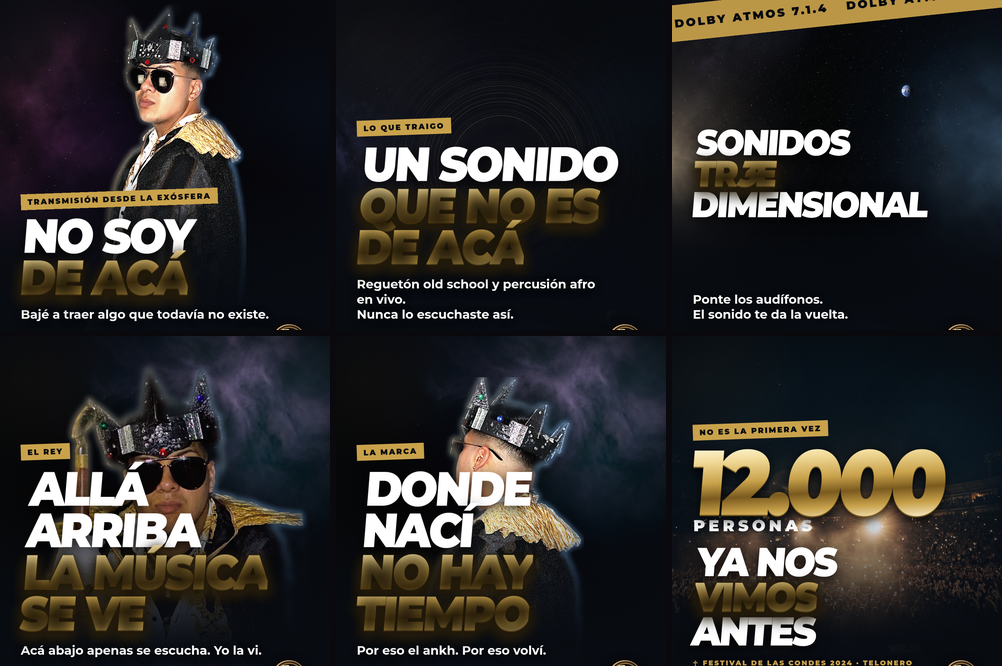
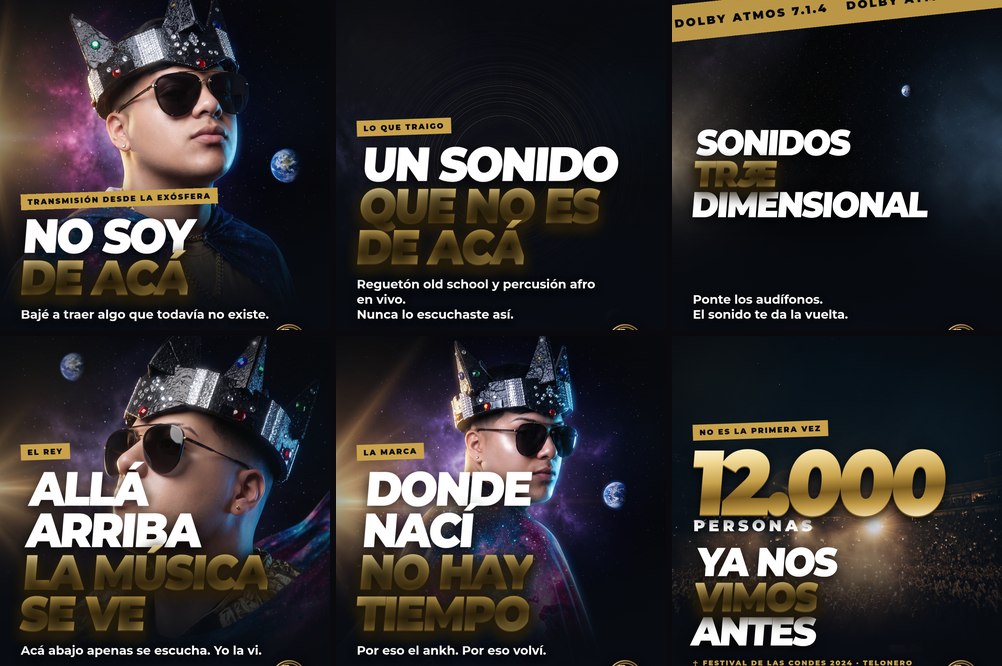
Genera las piezas de World King usando su cara como referencia
Recortar sus fotos y pegarlas sobre un fondo arrastraba la
subexposición del original y el borde duro del recorte. Ahora la foto
se usa como REFERENCIA DE IDENTIDAD para generar: se conservan los
rasgos y se gana piel limpia y acabado pulido.

Los prompts piden explícitamente piel tersa y ligeramente estilizada,
más los efectos que dan el acabado: flare anamórfico dorado entrando
por la izquierda, rim azul marcando la mandíbula por la derecha, glow
bloom y partículas.

Queda documentado el método en marca.json. componer.py se conserva para
cuando haya fotos buenas con las que valga la pena componer.

Changed region(s): [[0.0, 0.4805, 0.6806, 0.9309], [0.0, 0.0, 0.3094, 0.4204], [0.0619, 0.5105, 0.0928, 0.5706]]

diff --git a/produccion-contenido/clientes/world-king/graficas/build.js b/produccion-contenido/clientes/world-king/graficas/build.js
@@ -60,7 +60,7 @@ const piezas = [
     id: 'post-01-llegada',
     w: 1080, h: 1350,
     tipo: 'hero',
-    imagen: 'wk-retrato.png',
+    imagen: 'gen-wk-retrato.png',
     sobre: 'TRANSMISIÓN DESDE LA EXÓSFERA',
     titulo: 'NO SOY<br><span class="oro">DE ACÁ</span>',
     texto: 'Bajé a traer algo que todavía no existe.',
@@ -90,7 +90,7 @@ const piezas = [
     id: 'post-04-corona',
     w: 1080, h: 1350,
     tipo: 'hero',
-    imagen: 'wk-cetro.png',
+    imagen: 'gen-wk-perfil.png',
     sobre: 'EL REY',
     titulo: 'ALLÁ ARRIBA<br><span class="oro">LA MÚSICA<br>SE VE</span>',
     texto: 'Acá abajo apenas se escucha. Yo la vi.',
@@ -100,7 +100,7 @@ const piezas = [
     id: 'post-05-ankh',
     w: 1080, h: 1350,
     tipo: 'hero',
-    imagen: 'wk-espaldas.png',
+    imagen: 'gen-wk-espaldas.png',
     sobre: 'LA MARCA',
     titulo: 'DONDE NACÍ<br><span class="oro">NO HAY TIEMPO</span>',
     texto: 'Por eso el ankh. Por eso volví.',
@@ -126,7 +126,7 @@ const piezas = [
     id: 'post-07-entre-ustedes',
     w: 1080, h: 1350,
     tipo: 'hero',
-    imagen: 'wk-terrestre.png',
+    imagen: 'gen-wk-retrato.png',
     sobre: 'MODO TERRESTRE',
     titulo: 'NO VINE A<br><span class="oro">MANDAR</span>',
     texto: 'Vine a darles.<br>Lo que traigo se comparte.',
@@ -157,7 +157,7 @@ const piezas = [
     id: 'reel-02-adaptacion',
     w: 1080, h: 1920,
     tipo: 'reel',
-    imagen: 'wk-story.png',
+    imagen: 'gen-wk-story.png',
     n: '02',
     sobre: 'PERFORMANCE',
     titulo: 'ME<br><span class="oro">ADAPTO</span>',
@@ -167,7 +167,7 @@ const piezas = [
     id: 'reel-03-frecuencias',
     w: 1080, h: 1920,
     tipo: 'reel',
-    imagen: 'wk-story-cetro.png',
+    imagen: 'gen-wk-story.png',
     n: '03',
     sobre: 'FRECUENCIAS ANÓMALAS',
     titulo: 'NO<br><span class="oro">SOY</span><br>HUMANO',
@@ -263,7 +263,7 @@ const piezas = [
     id: 'historia-01-cuenta-regresiva',
     w: 1080, h: 1920,
     tipo: 'historia',
-    imagen: 'wk-story.png',
+    imagen: 'gen-wk-story.png',
     sobre: 'ENTRADA EN LA ATMÓSFERA',
     titulo: 'ESTOY<br><span class="oro">ENTRANDO</span><br>EN ÓRBITA',
     texto: EP,
